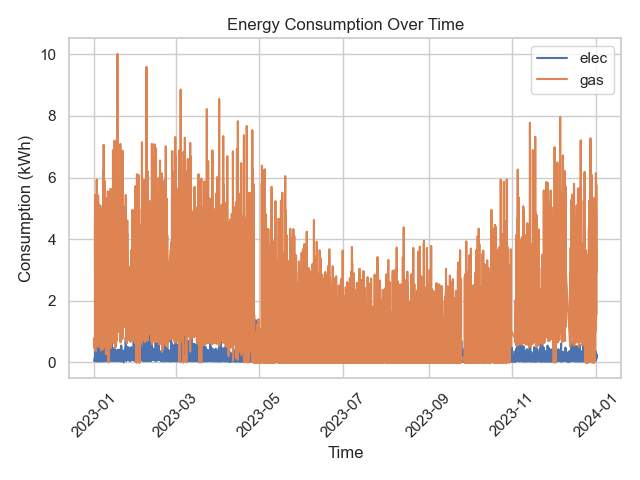
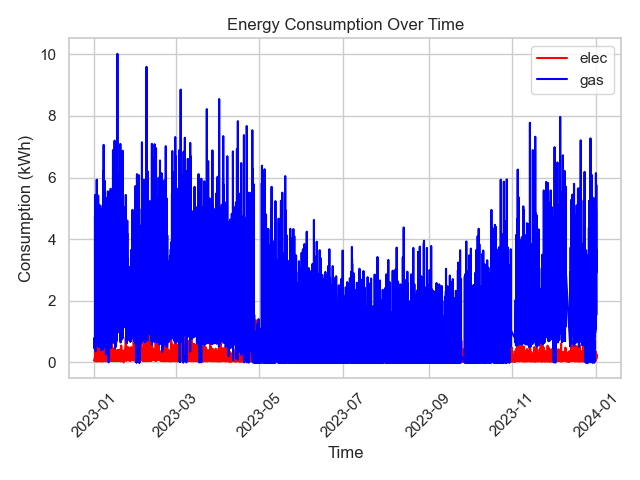
include total charge and update plots

Changed region(s): [[0.125, 0.125, 0.9375, 0.7812], [0.8438, 0.1562, 0.875, 0.1875], [0.8438, 0.0938, 0.875, 0.125]]

diff --git a/data.py b/data.py
@@ -5,8 +5,8 @@ import seaborn as sns
 import matplotlib.pyplot as plt
 from reportlab.lib import colors
 from reportlab.lib.pagesizes import letter
-from reportlab.platypus import SimpleDocTemplate, Table, TableStyle, Image
-
+from reportlab.platypus import SimpleDocTemplate, Table, TableStyle, Image, Paragraph, Spacer
+from reportlab.lib.styles import getSampleStyleSheet
 
 start_time = pd.to_datetime('2023-01-01 00:00:00+00:00')
 end_time = pd.to_datetime('2024-01-01 00:00:00+00:00')
@@ -31,11 +31,11 @@ def preprocess_dataframe(dataFrame):
     return dataFrame
 
 
-def lineplot_for_data(dataFrame, name_of_plot, column_to_plot):
+def lineplot_for_data(dataFrame, name_of_plot, column_to_plot, colour):
     # Plot the data
     sns.set(style="whitegrid")
     sns.lineplot(x='Start', y= column_to_plot, \
-                 data = dataFrame,label = name_of_plot)
+                 data = dataFrame,label = name_of_plot, color = colour)
     plt.title('Energy Consumption Over Time')
     plt.xlabel('Time')
     plt.ylabel(column_to_plot)
@@ -71,8 +71,8 @@ elecDataFrame = elecDataFrame[(elecDataFrame['Start'] >= start_time) \
 gasDataFrame = gasDataFrame[(gasDataFrame['Start'] >= start_time) \
                               & (gasDataFrame['Start'] <= end_time)]
 
-lineplot_for_data(elecDataFrame, "elec", 'Consumption (kWh)')
-lineplot_for_data(gasDataFrame, "gas", 'Consumption (kWh)')
+lineplot_for_data(elecDataFrame, "elec", 'Consumption (kWh)', 'red')
+lineplot_for_data(gasDataFrame, "gas", 'Consumption (kWh)', 'blue')
 plt.savefig('plots/plot_dataFrame_elec_gas.png')
 plt.close()
 
@@ -81,8 +81,8 @@ cost_data(gasDataFrame, 0.0731)
 standing_charge_elec = standing_charge(elecDataFrame, 0.42, duration_in_days)
 standing_charge_gas = standing_charge(gasDataFrame,0.2747, duration_in_days)
 
-lineplot_for_data(elecDataFrame, "elec", 'Consumption (£)')
-lineplot_for_data(gasDataFrame, "gas", 'Consumption (£)')
+lineplot_for_data(elecDataFrame, "elec", 'Consumption (£)', 'red')
+lineplot_for_data(gasDataFrame, "gas", 'Consumption (£)', 'blue')
 plt.savefig('plots/plot_dataFrame_elec_gas_cost.png')
 plt.close()
 
@@ -99,6 +99,7 @@ def reportdata(dataFrame, plottype, standing_charge):
     total_consumption_cost = dataFrame['Consumption (£)'].sum()
     average_consumption_cost = dataFrame['Consumption (£)'].mean()
     max_consumption_cost = dataFrame['Consumption (£)'].max()
+    total_charge = standing_charge+total_consumption_cost
 
     # Add key statistics to the report
     key_statistics = [
@@ -108,15 +109,28 @@ def reportdata(dataFrame, plottype, standing_charge):
         ["Total Consumption " +str(plottype), f"£{total_consumption_cost:.2f}"],
         ["Average Consumption "+str(plottype), f"£{average_consumption_cost:2f}"],
         ["Maximum Consumption "+str(plottype), f"£{max_consumption_cost:.2f}"],
-        ["Standing Charge "+str(plottype), f"£{standing_charge:.2f}"]
+        ["Standing Charge "+str(plottype), f"£{standing_charge:.2f}"],
+        ["Total Charge "+str(plottype), f"£{total_charge:.2f}"]
     ]
-    return key_statistics
+    return key_statistics, total_charge
 
-key_statistics_elec = reportdata(elecDataFrame, "elec", standing_charge_elec)
-key_statistics_gas = reportdata(gasDataFrame, "gas", standing_charge_gas)
+key_statistics_elec, total_charge_elec = reportdata(elecDataFrame, "elec", standing_charge_elec)
+key_statistics_gas, total_charge_gas = reportdata(gasDataFrame, "gas", standing_charge_gas)
+
+total_charge_gas_elec = total_charge_elec+total_charge_gas
+total_charge_list = [
+    ["Total Charge for elec and gas", f"£{total_charge_gas_elec:.2f}"],
+    ["Total Charge for elec and gas (monthly)", f"£{total_charge_gas_elec/12:.2f}"]
+    ]
+
+# Add title and subtitle to the report
+title = "Energy Consumption Report"
+content.append(Paragraph(title, getSampleStyleSheet()['Title']))
+content.append(Spacer(1, 12))
 
 content.append(Table(key_statistics_elec, colWidths=[200, 100]))
 content.append(Table(key_statistics_gas, colWidths=[200, 100]))
+content.append(Table(total_charge_list, colWidths=[200, 100]))
 
 # Add plot to the report using Image class
 content.append(Image('plots/plot_dataFrame_elec_gas_cost.png', width=400, height=300))
@@ -132,8 +146,9 @@ style = TableStyle([
     ('GRID', (0, 0), (-1, -1), 1, colors.black),
 ])
 
-content[0].setStyle(style)
-content[1].setStyle(style)
+content[2].setStyle(style)
+content[3].setStyle(style)
+content[4].setStyle(style)
 
 # Build the PDF report
 doc.build(content)
